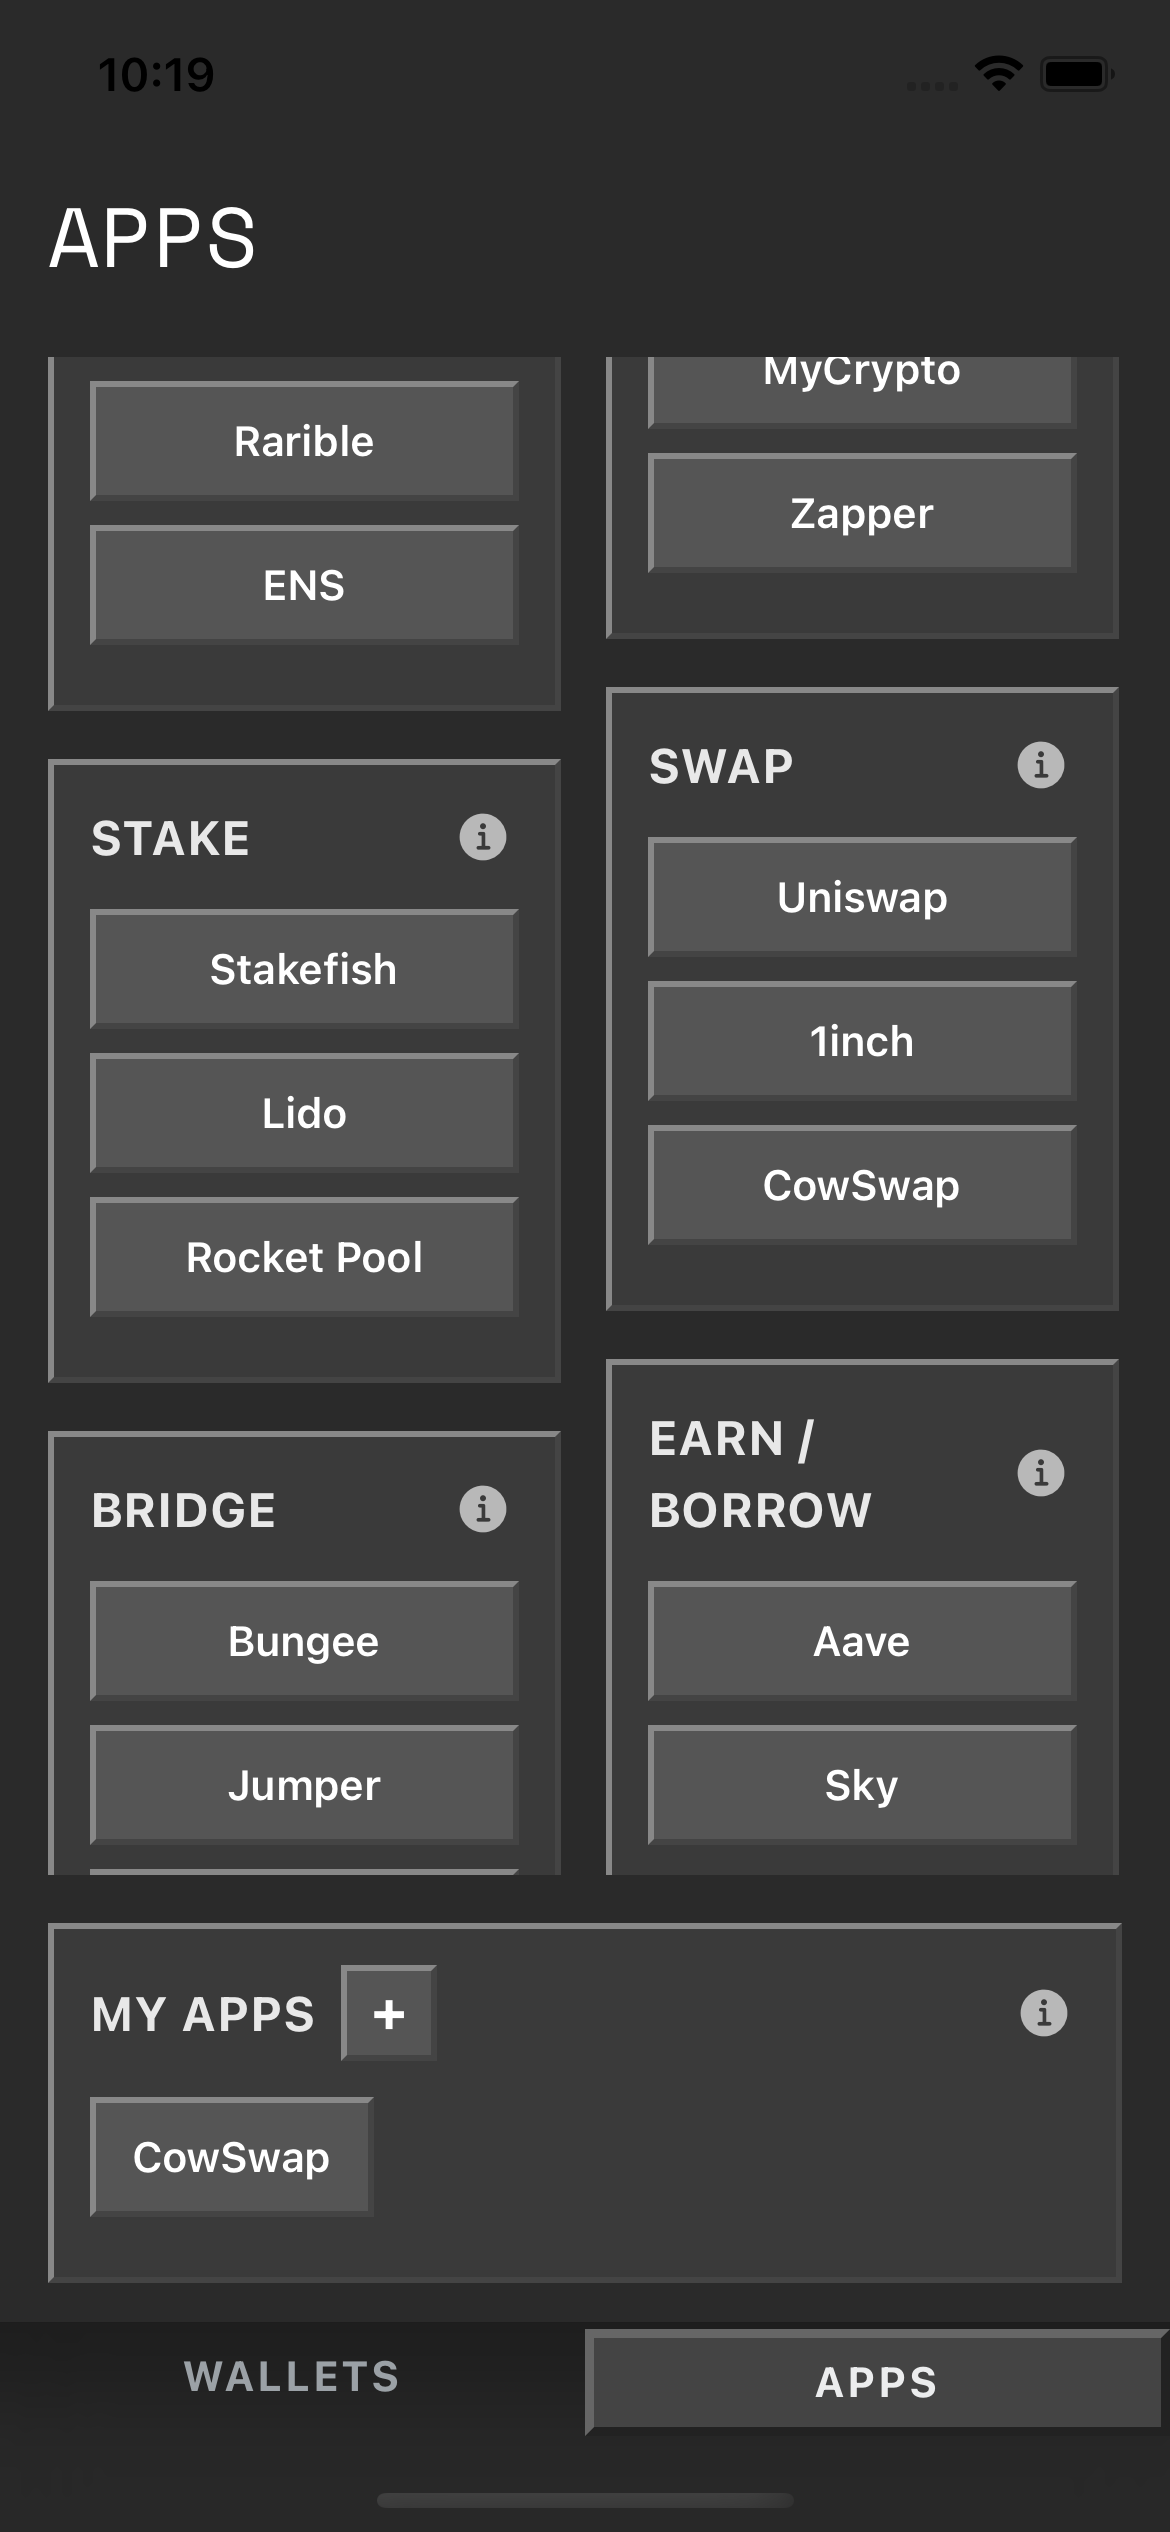
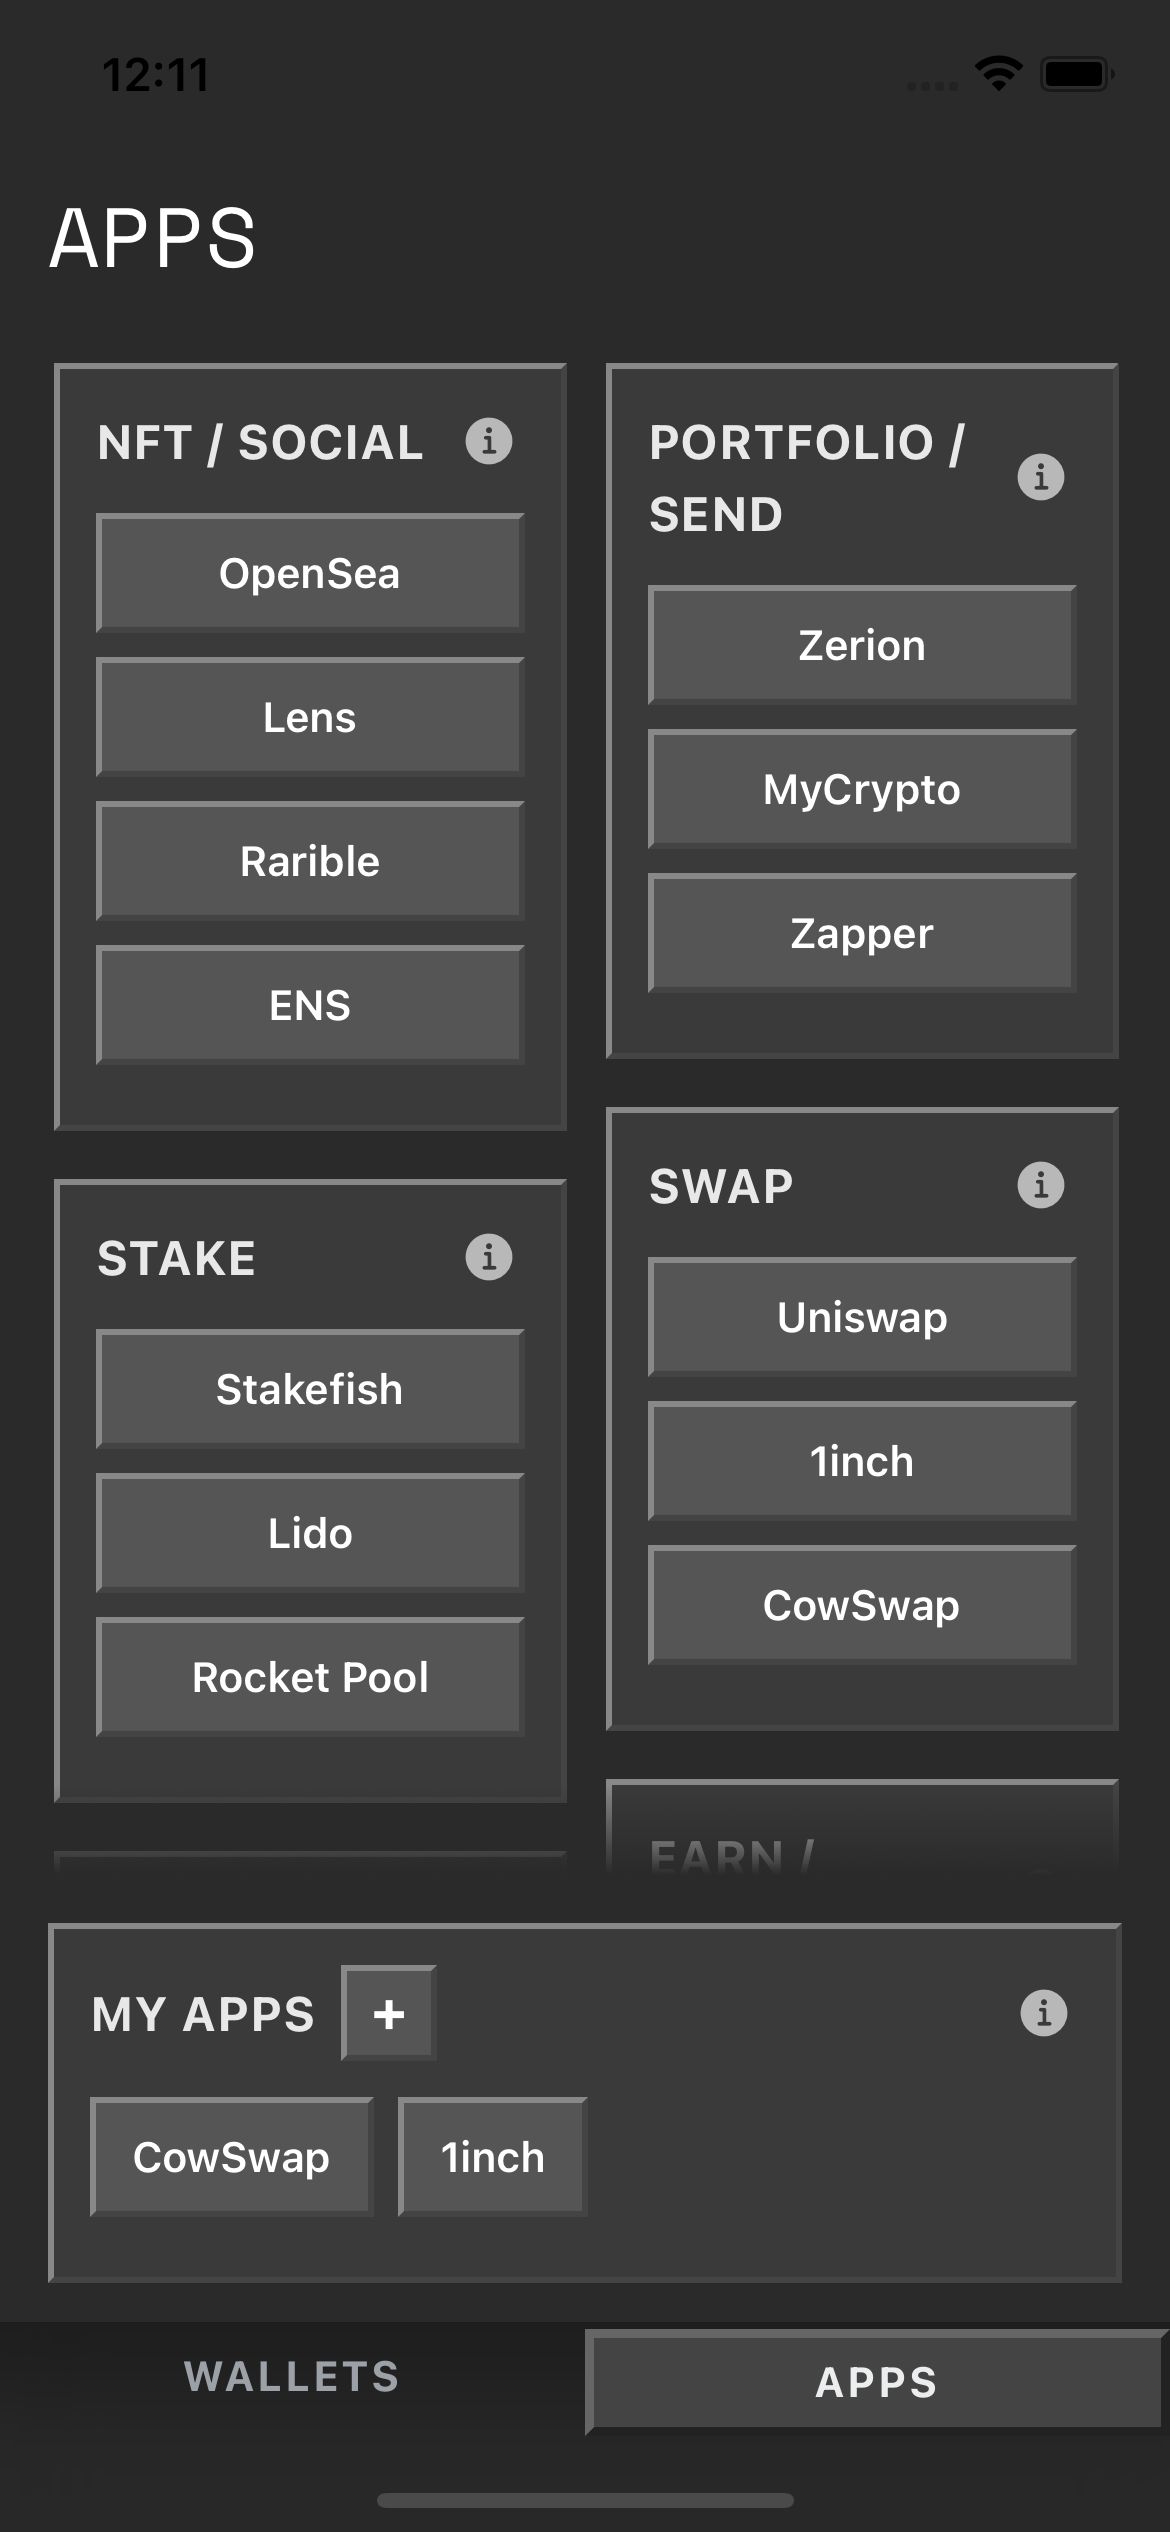
style: Apps bottom border.

diff --git a/components/WelcomePage.tsx b/components/WelcomePage.tsx
@@ -2,6 +2,7 @@ import React, { useMemo, useState } from 'react';
 import { StyleSheet, TouchableOpacity, View, Platform, ScrollView, Dimensions } from 'react-native';
 import { useSafeAreaInsets } from 'react-native-safe-area-context';
 import { Ionicons } from '@expo/vector-icons';
+import { LinearGradient } from 'expo-linear-gradient';
 import { ThemedText } from './ThemedText';
 import { ThemedView } from './ThemedView';
 import { AppInfoSheet, AppDescription } from './AppInfoSheet';
@@ -225,23 +226,31 @@ export function WelcomePage({
       </View>
       
       <View style={styles.mainContainer}>
-        {/* Two column scrollable area for regular categories */}
-        <ScrollView 
-          style={styles.columnsScrollContainer}
-          showsVerticalScrollIndicator={false}
-          showsHorizontalScrollIndicator={false}>
-          <View style={styles.columnsContainer}>
-            {/* Left Column */}
-            <View style={styles.column}>
-              {leftColumn.map(renderCategoryCard)}
+        {/* Two column scrollable area for regular categories with mist effect */}
+        <View style={styles.mistContainer}>
+          {/* Bottom mist gradient only */}
+          <LinearGradient
+            colors={['rgba(42, 42, 42, 0)', 'rgba(42, 42, 42, 1)']}
+            style={styles.mistOverlayBottom}
+          />
+          
+          <ScrollView 
+            style={styles.columnsScrollContainer}
+            showsVerticalScrollIndicator={false}
+            showsHorizontalScrollIndicator={false}>
+            <View style={styles.columnsContainer}>
+              {/* Left Column */}
+              <View style={styles.column}>
+                {leftColumn.map(renderCategoryCard)}
+              </View>
+              
+              {/* Right Column */}
+              <View style={styles.column}>
+                {rightColumn.map(renderCategoryCard)}
+              </View>
             </View>
-            
-            {/* Right Column */}
-            <View style={styles.column}>
-              {rightColumn.map(renderCategoryCard)}
-            </View>
-          </View>
-        </ScrollView>
+          </ScrollView>
+        </View>
 
         {/* MY APPS Section - Fixed below columns, not inside the ScrollView */}
         <View style={styles.myAppsSection}>
@@ -293,12 +302,29 @@ const styles = StyleSheet.create({
     display: 'flex',
     flexDirection: 'column',
   },
+  // Mist effect container
+  mistContainer: {
+    flex: 1,
+    position: 'relative',
+    borderRadius: 6,
+    overflow: 'hidden',
+  },
   columnsScrollContainer: {
     flex: 1,
+  },
+  // Mist gradient overlays
+  mistOverlayBottom: {
+    position: 'absolute',
+    bottom: 0,
+    left: 0,
+    right: 0,
+    height: 30,
+    zIndex: 2,
   },
   columnsContainer: {
     flexDirection: 'row',
     justifyContent: 'space-between',
+    padding: 2, // Add a little padding to keep content away from mist edges
   },
   column: {
     flexBasis: '48%', // Not quite 50% to allow for spacing

diff --git a/README.md b/README.md
@@ -24,9 +24,9 @@ If you enjoy [frame.sh](https://frame.sh/) Mist2 should feel familiar.
 - Open source
 
 <div align="center">
-  <img src="readme/apps.png" alt="apps" width="17%" style="margin-right: 1%">
-  <img src="readme/wallets.png" alt="wallets" width="17%" style="margin-right: 1%">
-  <img src="readme/app.png" alt="app" width="17%">
+  <img src="readme/apps.png" alt="apps" width="25%" style="margin-right: 3%">
+  <img src="readme/wallets.png" alt="wallets" width="25%" style="margin-right: 3%">
+  <img src="readme/app.png" alt="app" width="25%">
 </div>
 
 ### Disclaimer
